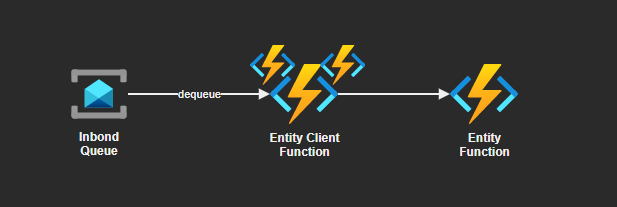
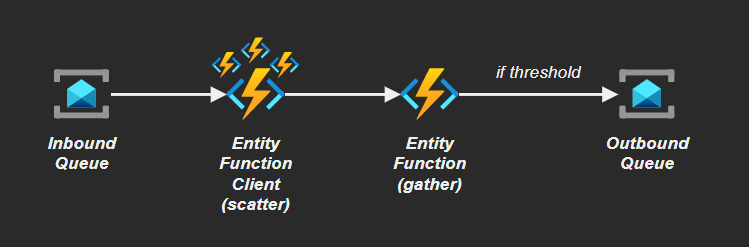
outbound queue

diff --git a/Counter/index.js b/Counter/index.js
@@ -2,7 +2,6 @@
 
 module.exports = df.entity(function (context) {
     let currentValue = context.df.getState(() => 0);
-
     switch (context.df.operationName) {
         case "add":
             const amount = context.df.getInput();
@@ -16,7 +15,9 @@ module.exports = df.entity(function (context) {
             break;
     }
     if(currentValue >= 1000) {
-        console.log(">>>>>>>>>>>>>>> Completed <<<<<<<<<<<<<<<<<")
+        console.log("Completed.")
+        context.bindings.outboundQueue = "completed";
+        console.log("Message sent to output queue.")
     }
     context.df.setState(currentValue);
 });

diff --git a/README.md b/README.md
@@ -1,5 +1,7 @@
 # Azure Durable Function
 
+Aggregator (scatter-gather) implementation with Azure Durable Functions.
+
 <img src=".docs/entity.png" />
 
 Requirements:
@@ -17,8 +19,8 @@ Ramp up a Service Bus instance:
 # Create the thing
 az group create -n "rg-local-dev" -l "eastus2"
 az servicebus namespace create -n "bus-az-durable-functions-dev" -g "rg-local-dev" -l "eastus2" --sku "Basic"
-az servicebus queue create -n "inbound" --namespace-name "bus-az-durable-functions-dev" -g "rg-local-dev" --enable-partitioning
-az servicebus queue create -n "outbound" --namespace-name "bus-az-durable-functions-dev" -g "rg-local-dev" --enable-partitioning
+az servicebus queue create -n "inbound-queue" --namespace-name "bus-az-durable-functions-dev" -g "rg-local-dev" --enable-partitioning
+az servicebus queue create -n "outbound-queue" --namespace-name "bus-az-durable-functions-dev" -g "rg-local-dev" --enable-partitioning
 
 # Export for the function
 export AZURE_SERVICEBUS_CONNECTION_STRING=$(az servicebus namespace authorization-rule keys list -g "rg-local-dev" --namespace-name "bus-az-durable-functions-dev" --name "RootManageSharedAccessKey" --query "primaryConnectionString" -o tsv)
